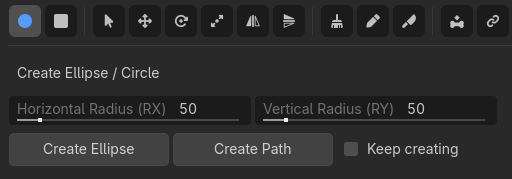
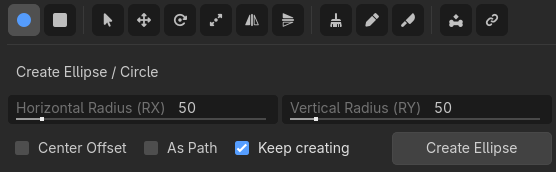
updates readme.

diff --git a/addons/curved_lines_2d/README.md b/addons/curved_lines_2d/README.md
@@ -329,7 +329,9 @@ Since `2.14.0` you can export your animated scene as sprite frames in one PNG sp
 
 # Creating Basic Shapes
 
-Using the 2 leftmost tools in the create tab you can create basic ellipses and rectangles, both as a path based on Bézier curves:
+Using the 2 leftmost tools in the create tab you can create basic ellipses and rectangles. 
+
+They as a path based on Bézier curves:
 
 ![create ellipse as path](./screenshots/create-ellipse-as-path.png)
 
@@ -339,35 +341,37 @@ And as a so called 'primitive shape', which is easier to resize and, in the case
 
 ## The Create Ellipse Tool
 
-While this tool is active, you can create ellipse primitives anywhere on top of a selected Node2D or Control node by clicking.
+While this tool is active, you can create ellipses anywhere on top of a selected `Node2D` or `Control` node by clicking and dragging.
 
-You can also create the ellipse by clicking one of the two buttons in the dock.
+You can also create the ellipse using the form fields and button in the bottom dock.
 
 ![create ellipse tool](./screenshots/create-ellipse.png)
 
 For the ellipse you can set the horizontal and vertical radius.
 
-When you press `Create Ellipse`, an ellipse primitive is created with just 1 handle for resizing.
+When `Center Offset` is checked the shape's pivot will be in the middle by default. If unchecked it will be top/left.
 
-When you press `Create Path`, the ellipse as is created as a bézier path.
+When `As Path`, the ellipse is created as a bézier path in stead of as a primitive shape.
 
-When "Keep creating" is checked, you can continue adding more ellipses after adding one. If it is unchecked, your new ellipse will be autmatically selected in "select mode" after creation.
+When `Keep creating` is checked, you can continue adding more ellipses after adding one. If it is unchecked, your new ellipse will be autmatically selected in "select mode" after creation.
 
 ## The Create Rectangle Tool
 
-While this tool is active, you can create rectangle primitives anywhere on top of a selected Node2D or Control node by clicking.
 
-You can also create the rectangle by clicking one of the two buttons in the dock.
+While this tool is active, you can create rectangles anywhere on top of a selected `Node2D` or `Control` node by clicking and dragging.
+
+You can also create the rectangle using the form fields and button in the bottom dock.
 
 ![create rectangle tool](./screenshots/create-rectangle-tool.png)
 
 For the rectangle you can pick the width, height and corder radius in the settings panel.
 
-When you press `Create Rectangle`, a rectangle primitive is created with just 2 handles (for resizing and corner radius).
+When `Center Offset` is checked the shape's pivot will be in the middle by default. If unchecked it will be top/left.
 
-When you press `Create Path`, a rectangle as is created as a bézier path.
+When `As Path`, the rectangle is created as a bézier path in stead of as a primitive shape.
 
-When "Keep creating" is checked, you can continue adding more rectangles after adding one. If it is unchecked, your new rectangle will be autmatically selected in "select mode" after creation.
+
+When `Keep creating` is checked, you can continue adding more rectangles after adding one. If it is unchecked, your new rectangle will be autmatically selected in "select mode" after creation.
 
 # Moving, Rotating and Resizing the Points of a Shape
 
@@ -1063,10 +1067,9 @@ As you can see in this screenshot, the `DynamicOutline2D` node is not deleted, b
 
 # Autoscaling SVG Textures for GUI Controls
 
-Release `2.15` makes it easy to add crisp, autoscaling images for your GUI Control nodes using two new classes:
+Release `2.15` makes it easy to add crisp, autoscaling images for your GUI Control nodes using this new node typr:
 
-- `SVGTextureHelper`: a `Node` that manages an SVG image resource when it's a direct child of a `TextureRect`, `Button`, or `TextureButton`
-- `SVGTextureResource`: a `Resource` that holds a reference to the svg file and a base64 encoded string of the file's contents, as well as a baseline scale factor (so you can even keep the image crips and sharp at higher zoom levels)
+- `SVGTextureHelper`: a `Node` that manages an SVG image texture property when it's a direct child of a `TextureRect`, `Button`, or `TextureButton`. It holds a reference to the svg file and a base64 encoded string of the file's contents, as well as a baseline scale factor (so you can even keep the image crips and sharp at higher zoom levels)
 
 
 ## Adding Autoscaling SVG Textures via the Inspector
@@ -1079,7 +1082,7 @@ These 3 control nodes now have an extra button `Set Scalable SVG Texture` in the
 
 ![setting autoscaling svg textures](./screenshots/scaling_textures.png)
 
-Once an SVG file has been chosen as a texture, a `SVGTextureHelper` node is automatically added to manage the automatically scaled image via a `SVGTextureResource`.
+Once an SVG file has been chosen as a texture, a `SVGTextureHelper` node is automatically added to manage the automatically scaled image.
 
 A button with the name of the texture property and an icon-preview will then be presented with which you can pick another SVG file source.
 

diff --git a/README.md b/README.md
@@ -329,7 +329,9 @@ Since `2.14.0` you can export your animated scene as sprite frames in one PNG sp
 
 # Creating Basic Shapes
 
-Using the 2 leftmost tools in the create tab you can create basic ellipses and rectangles, both as a path based on Bézier curves:
+Using the 2 leftmost tools in the create tab you can create basic ellipses and rectangles. 
+
+They as a path based on Bézier curves:
 
 ![create ellipse as path](./addons/curved_lines_2d/screenshots/create-ellipse-as-path.png)
 
@@ -339,35 +341,37 @@ And as a so called 'primitive shape', which is easier to resize and, in the case
 
 ## The Create Ellipse Tool
 
-While this tool is active, you can create ellipse primitives anywhere on top of a selected Node2D or Control node by clicking.
+While this tool is active, you can create ellipses anywhere on top of a selected `Node2D` or `Control` node by clicking and dragging.
 
-You can also create the ellipse by clicking one of the two buttons in the dock.
+You can also create the ellipse using the form fields and button in the bottom dock.
 
 ![create ellipse tool](./addons/curved_lines_2d/screenshots/create-ellipse.png)
 
 For the ellipse you can set the horizontal and vertical radius.
 
-When you press `Create Ellipse`, an ellipse primitive is created with just 1 handle for resizing.
+When `Center Offset` is checked the shape's pivot will be in the middle by default. If unchecked it will be top/left.
 
-When you press `Create Path`, the ellipse as is created as a bézier path.
+When `As Path`, the ellipse is created as a bézier path in stead of as a primitive shape.
 
-When "Keep creating" is checked, you can continue adding more ellipses after adding one. If it is unchecked, your new ellipse will be autmatically selected in "select mode" after creation.
+When `Keep creating` is checked, you can continue adding more ellipses after adding one. If it is unchecked, your new ellipse will be autmatically selected in "select mode" after creation.
 
 ## The Create Rectangle Tool
 
-While this tool is active, you can create rectangle primitives anywhere on top of a selected Node2D or Control node by clicking.
 
-You can also create the rectangle by clicking one of the two buttons in the dock.
+While this tool is active, you can create rectangles anywhere on top of a selected `Node2D` or `Control` node by clicking and dragging.
+
+You can also create the rectangle using the form fields and button in the bottom dock.
 
 ![create rectangle tool](./addons/curved_lines_2d/screenshots/create-rectangle-tool.png)
 
 For the rectangle you can pick the width, height and corder radius in the settings panel.
 
-When you press `Create Rectangle`, a rectangle primitive is created with just 2 handles (for resizing and corner radius).
+When `Center Offset` is checked the shape's pivot will be in the middle by default. If unchecked it will be top/left.
 
-When you press `Create Path`, a rectangle as is created as a bézier path.
+When `As Path`, the rectangle is created as a bézier path in stead of as a primitive shape.
 
-When "Keep creating" is checked, you can continue adding more rectangles after adding one. If it is unchecked, your new rectangle will be autmatically selected in "select mode" after creation.
+
+When `Keep creating` is checked, you can continue adding more rectangles after adding one. If it is unchecked, your new rectangle will be autmatically selected in "select mode" after creation.
 
 # Moving, Rotating and Resizing the Points of a Shape
 
